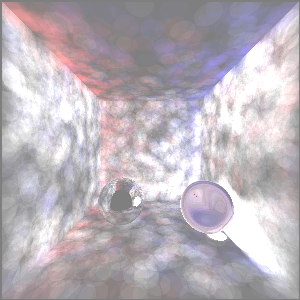
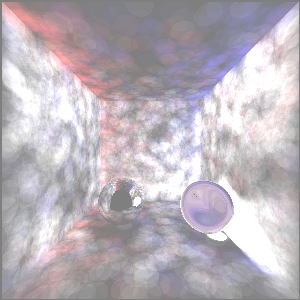
Fixed soft shadow problem

diff --git a/Labs/raytracer/Source/photonMap.cpp b/Labs/raytracer/Source/photonMap.cpp
@@ -319,7 +319,7 @@ void firePhoton(vec4 s, vec4 d, vector<Photon>& photons, Photon& photon, const v
     //     // printf("DEAD PHOTON\n");
     //     return;
     // }
-    if (ClosestIntersection(s, d, triangles, circles, i, n_fire)){
+    if (ClosestIntersection(s, d, triangles, circles, i, -1)){
         vec4 objectNormal;
         vec3 objectColor;
         Material objectMaterial;
